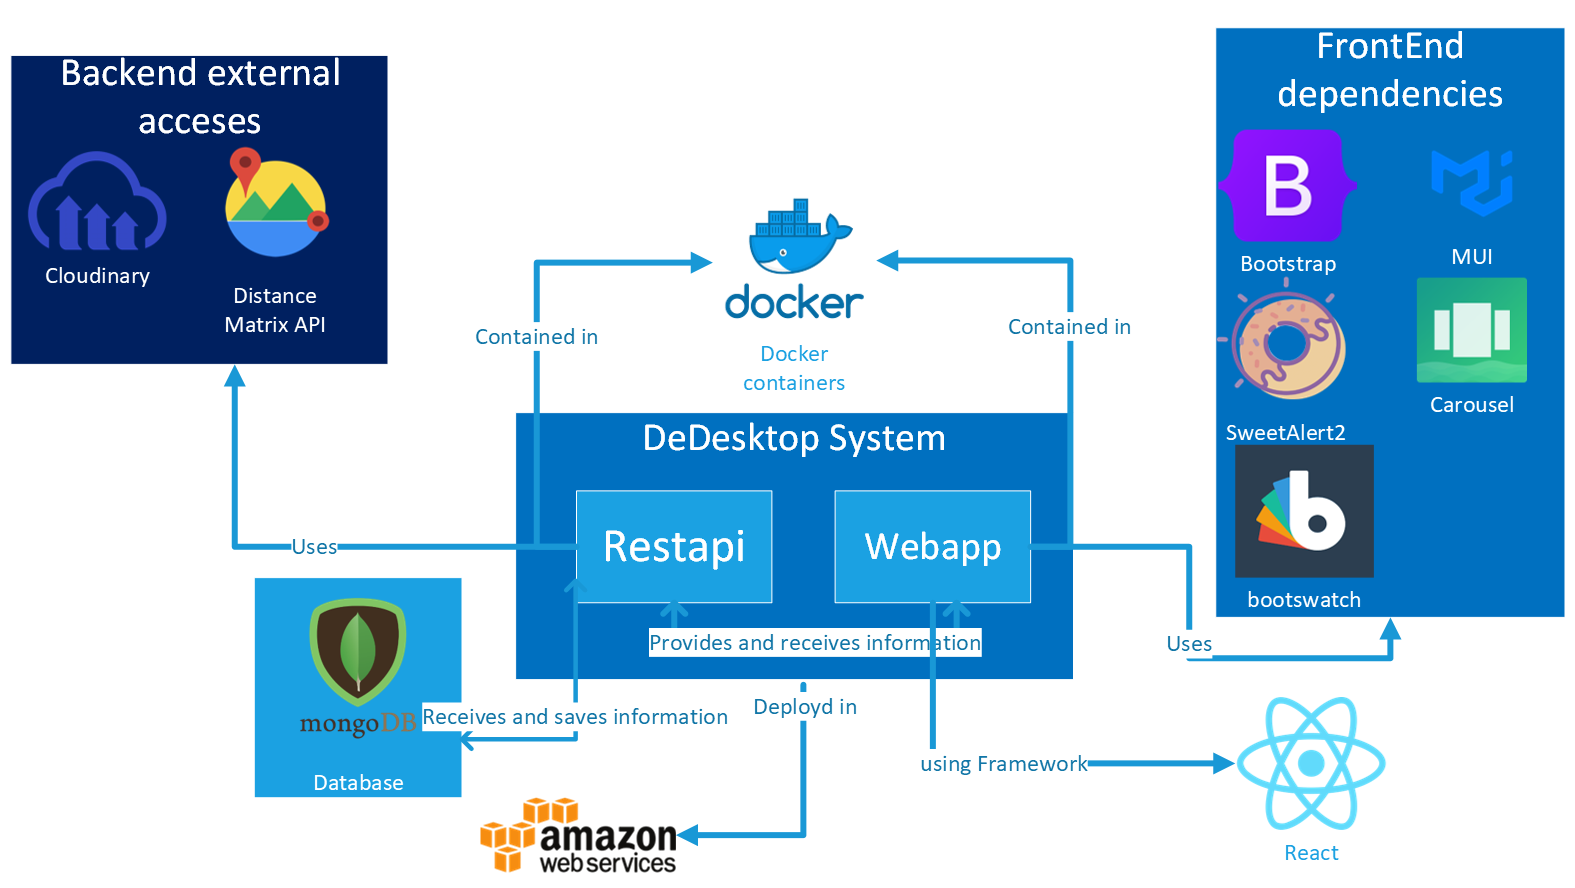
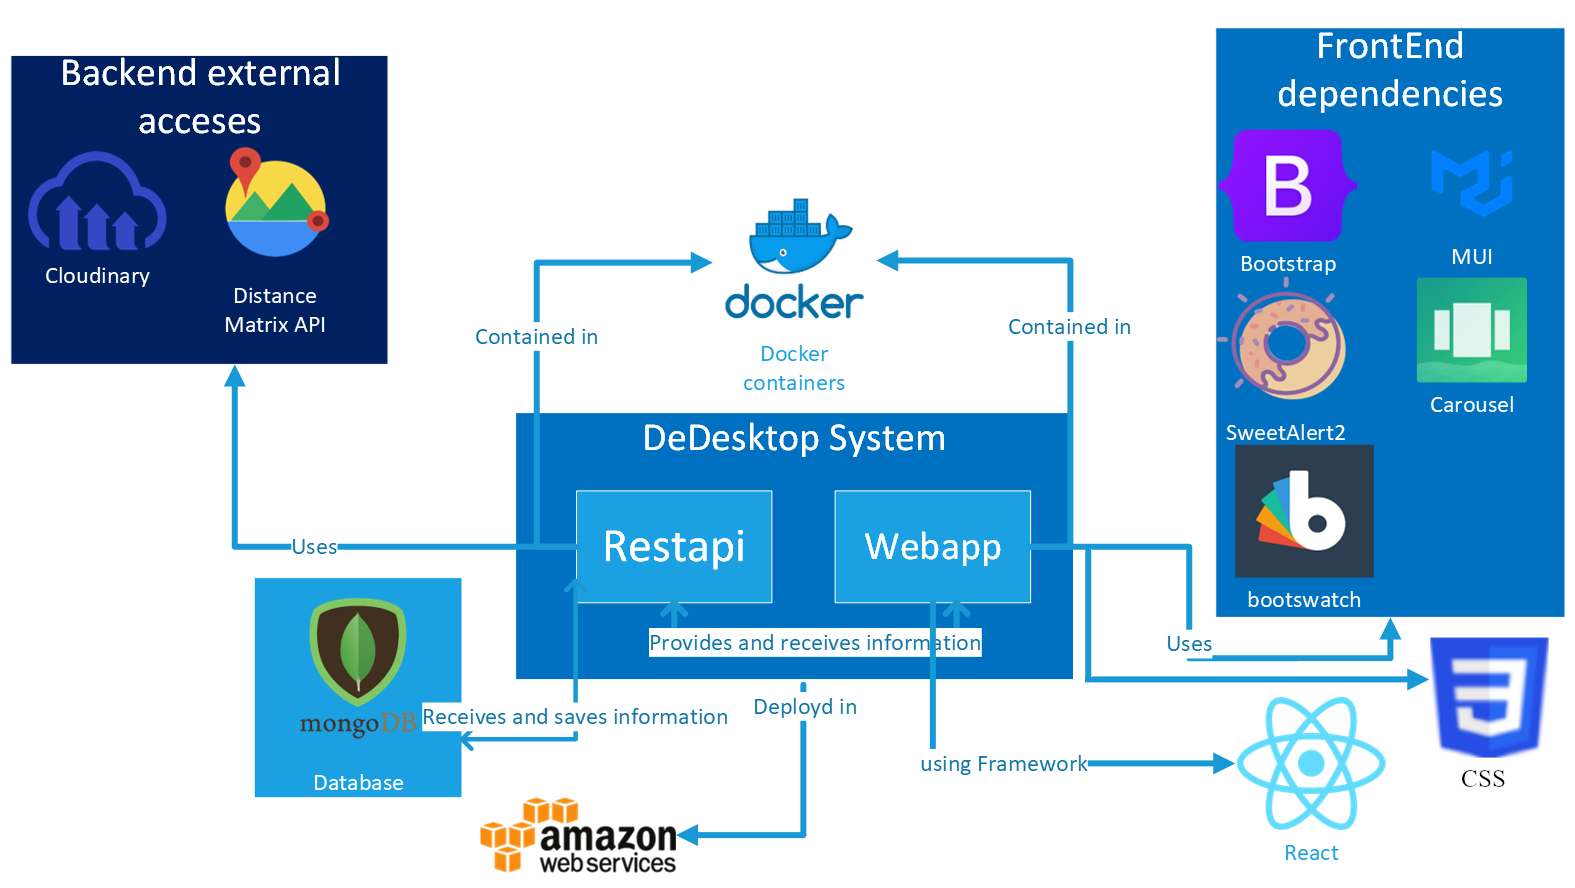
Updates

Changed region(s): [[0.6844, 0.6385, 0.9956, 0.8818]]

diff --git a/index.html b/index.html
@@ -523,6 +523,11 @@ body.book #toc,body.book #preamble,body.book h1.sect0,body.book .sect1>h2{page-b
 </ul>
 </li>
 <li><a href="#_glossary">12. Glossary</a></li>
+<li><a href="#_annexes">13. Annexes</a>
+<ul class="sectlevel2">
+<li><a href="#_usability_survey">13.1. Usability survey</a></li>
+</ul>
+</li>
 </ul>
 </div>
 </div>
@@ -944,6 +949,10 @@ Now, in frontend, we used the framework React accompanied by bootstrap and MUI c
 <td class="tableblock halign-left valign-top"><p class="tableblock"><em>Amazon Web Services</em></p></td>
 <td class="tableblock halign-left valign-top"><p class="tableblock"><em>Is the platform used for the system deployment. Chosen because after trying to deploy our app in another services like Heroku (we had problems because of our Docker architecture. The free version only allows to deply one container and we had 2) and Azure we couldn&#8217;t get a proper result so we decided to try with this one</em></p></td>
 </tr>
+<tr>
+<td class="tableblock halign-left valign-top"><p class="tableblock"><em>CSS</em></p></td>
+<td class="tableblock halign-left valign-top"><p class="tableblock"><em>CSS is a language to set styles and positions of our components in the application. We used it because of our familiarity with it.</em></p></td>
+</tr>
 </tbody>
 </table>
 <div class="paragraph">
@@ -1357,10 +1366,10 @@ As we can see in the following image, we are going to use AWS to deploy the appl
 <p>Prototype version of DeDesktop:</p>
 </div>
 <div class="paragraph">
-<p><span class="image"><img src="./images/08_UI-Homepage.PNG" alt="Catalog initial prototype"></span></p>
+<p><span class="image"><img src="./images/08_UI-Homepage.png" alt="Catalog initial prototype"></span></p>
 </div>
 <div class="paragraph">
-<p><span class="image"><img src="./images/08_UI-OtherWindows.PNG" alt="Other Windows initial prototype"></span></p>
+<p><span class="image"><img src="./images/08_UI-OtherWindows.png" alt="Other Windows initial prototype"></span></p>
 </div>
 <div class="paragraph">
 <p>Middle Version of DeDesktop</p>
@@ -1586,10 +1595,15 @@ We have a role system, which defines if a user is an Administrator or a normal U
 <div class="paragraph">
 <p>Hexagonal architecture is an alternative to traditional layered architecture.</p>
 </div>
+<div class="paragraph">
+<p><span class="image"><img src="./images/13_Hexagonal.png" alt="Hexagonal"></span></p>
+</div>
 </div>
 <div class="sect3">
 <h4 id="_microservices">8.6.2. Microservices</h4>
-
+<div class="paragraph">
+<p>In our application we decided to use microservices to divide the application into webapp, restapi, database and data. With this we achieve a low coupling in these layers, a better control over them and an improvement in the quality of the software. To achieve this decoupling, we use docker, to build the images of each service.</p>
+</div>
 </div>
 </div>
 <div class="sect2">
@@ -1604,13 +1618,59 @@ We have a role system, which defines if a user is an Administrator or a normal U
 <div class="sect2">
 <h3 id="_testability">8.8. Testability</h3>
 <div class="paragraph">
-<p>Applications should be strongly tested. We will use user histories to make acceptance tests and unit test to test the rest of the application components and states during running process.
+<p>Applications should be strongly tested. We use user stories to make acceptance tests and unit test to test the rest of the application components and states during running process.
 We think this is the best way to be sure the project works correctly.</p>
 </div>
+<div class="sect3">
+<h4 id="_postman">8.8.1. Postman</h4>
 <div class="paragraph">
-<p>To test our code, Postman was used in the backend during the whole development of the work, to check if the requests were being carried out correctly. Later, once we had a more or less solid project, we added a series of unit tests, which use Jest technology, these tests try to include all the backend and frontend parts, but separately, without joining them. Once these tests passed successfully, integration tests were implemented, which test the union of frontend and backend, all these tests were done exhaustively and were performed by people who had not done that part of the code, with that we get that we do not test things that are known to work.</p>
+<p>To test our code, Postman was used in the backend during the whole development of the work, to check if the requests were being carried out correctly. Postman is an application in which we can test requests and obtain a successfully respond if everything is ok.</p>
+</div>
+</div>
+<div class="sect3">
+<h4 id="_unit_tests">8.8.2. Unit tests</h4>
+<div class="paragraph">
+<p>Later, once we had a more or less solid project, we added a series of unit tests, which use Jest technology, these tests try to include all the backend and frontend parts, but separately, without joining them.</p>
+</div>
+</div>
+<div class="sect3">
+<h4 id="_integration_tests">8.8.3. Integration tests</h4>
+<div class="paragraph">
+<p>Once unit tests passed successfully, integration tests were implemented, which test the union of frontend and backend, all these tests were done exhaustively and were performed by people who had not done that part of the code, with that we get that we do not test things that are known to work.</p>
+</div>
+</div>
+<div class="sect3">
+<h4 id="_load_tests">8.8.4. Load tests</h4>
+<div class="paragraph">
+<p>We have load tests to check our application under real-life load conditions, it gives us an idea of the respond time having a determined users load.</p>
+</div>
+<div class="sect4">
+<h5 id="_get_products_catalog">Get products (catalog)</h5>
+<div class="paragraph">
+<p>3 users in 15 seconds
+<span class="image"><img src="./images/08_loadtests_getproducts3-15.png" alt="Load test - Catalog 1"></span>
+15 users in 30 seconds
+<span class="image"><img src="./images/08_loadtests_getproducts15-30.png" alt="Load test - Catalog 2"></span></p>
+</div>
+</div>
+<div class="sect4">
+<h5 id="_login">Login</h5>
+<div class="paragraph">
+<p>15 users in 60 seconds
+<span class="image"><img src="./images/08_loadtests_login15-60.png" alt="Load test - Login 1"></span>
+5000 users in 60 seconds. We can check that 5000 users in 1 minute is too much and some petitions fail. Most of the responds are slower but don&#8217;t fail.
+<span class="image"><img src="./images/08_loadtests_login5000-60.png" alt="Load test - Login 2"></span></p>
+</div>
+</div>
+<div class="sect4">
+<h5 id="_get_users_list">Get users list</h5>
+<div class="paragraph">
+<p>This load test implicates a login as admin before listing users.
+<span class="image"><img src="./images/08_loadtests_getuserslist3-15.png" alt="Load test - Get users 1"></span></p>
 </div>
 <div style="page-break-after: always;"></div>
+</div>
+</div>
 </div>
 </div>
 </div>
@@ -1726,6 +1786,24 @@ We think this is the best way to be sure the project works correctly.</p>
 <td class="tableblock halign-left valign-top"><p class="tableblock">We used this library to give the user intuitive and animated alerts while using the website</p></td>
 <td class="tableblock halign-left valign-top"><p class="tableblock">I&#8217;ts easy to use and comes with predeterminated settings that makes the programming experience a lot easier</p></td>
 <td class="tableblock halign-left valign-top"><p class="tableblock">I&#8217;ts another dependecy we had to take care of and make sure it doesn&#8217;t overlap with anything else ceating bugs</p></td>
+</tr>
+<tr>
+<td class="tableblock halign-left valign-top"><p class="tableblock">Work</p></td>
+<td class="tableblock halign-left valign-top"><p class="tableblock">One of the decisions taken was to prioritise the necessary functionalities and polish them, rather than make new ones optional</p></td>
+<td class="tableblock halign-left valign-top"><p class="tableblock">We were able to polish the functionalities we had, although we would have liked to polish them further</p></td>
+<td class="tableblock halign-left valign-top"><p class="tableblock">In the end we didn&#8217;t manage to polish them at all and lost the option to make them optional</p></td>
+</tr>
+<tr>
+<td class="tableblock halign-left valign-top"><p class="tableblock">react-material-ui-carousel</p></td>
+<td class="tableblock halign-left valign-top"><p class="tableblock">This library is used to make our home page a little bit more dynamic and beautiful. This is a library created with @mui components.</p></td>
+<td class="tableblock halign-left valign-top"><p class="tableblock">Very configurable and easy to use. It gives a very good result with little configuration.</p></td>
+<td class="tableblock halign-left valign-top"><p class="tableblock">Is another dependency that makes our proyect heavier and more dependent on external libraries. It also makes us to hardcode some code as images URLs and some texts.</p></td>
+</tr>
+<tr>
+<td class="tableblock halign-left valign-top"><p class="tableblock">CSS</p></td>
+<td class="tableblock halign-left valign-top"><p class="tableblock">Used to make our application more beautiful and to make all pages elements stay in its positions.</p></td>
+<td class="tableblock halign-left valign-top"><p class="tableblock">Is a known language for some of our team members, so we can use it properly.</p></td>
+<td class="tableblock halign-left valign-top"><p class="tableblock">It makes you write more code and sometimes is difficult to make the styles in the proper way.</p></td>
 </tr>
 </tbody>
 </table>
@@ -2080,6 +2158,57 @@ We think this is the best way to be sure the project works correctly.</p>
 </tbody>
 </table>
 <div style="page-break-after: always;"></div>
+</div>
+</div>
+<div class="sect1">
+<h2 id="_annexes">13. Annexes</h2>
+<div class="sectionbody">
+<div class="sect2">
+<h3 id="_usability_survey">13.1. Usability survey</h3>
+<div class="paragraph">
+<p>To test our application and try to see how users use it, we made a survey with some of our friends and parents.</p>
+</div>
+<div class="paragraph">
+<p>We tried to test our web with two age groups. The first one is between 20 and 30 years old. All this group is considered as medium-high technology knowledge. The second one, between 45 and 55 years old, is a group with a low knowledges in techonolgy uses.</p>
+</div>
+<div class="paragraph">
+<p>First of all we made them login and signup in our web. Only one person had problems in this part, due to the little custom of carrying out this type of actions.</p>
+</div>
+<div class="paragraph">
+<p><span class="image"><img src="./images/annex11.png" alt="log in problems"></span></p>
+</div>
+<div class="paragraph">
+<p>One of the most important aspects when developing our application has been its usability. For this reason, we have asked the interviewees to tell us what problems they have encountered when browsing the application.
+The majority have not had problems, but there have been two cases in which there have been slight confusions, due to the language of the store. For these users, since the home store is in English, it could be a bit confusing when changing the language and without it, they could not navigate. There has also been a user who has detected that the header with the links, on small screens, is dislodged to be able to enter.
+The biggest navigability problem is that almost all those interviewed have found a bug in which one of the images on the home page was loaded incorrectly and was cut off.</p>
+</div>
+<div class="paragraph">
+<p>In addition, they have been asked to give a numerical score for usability.</p>
+</div>
+<div class="paragraph">
+<p><span class="image"><img src="./images/annex12.png" alt="web usability"></span></p>
+</div>
+<div class="paragraph">
+<p>As for the aesthetics of the application, there have been very good opinions and it has seemed attractive to users.</p>
+</div>
+<div class="paragraph">
+<p><span class="image"><img src="./images/annex13.png" alt="beauty votation"></span></p>
+</div>
+<div class="paragraph">
+<p>They have also been asked to simulate a purchase. Everyone has been able to add to cart easily. However, there have been a couple of problems in this regard.
+Some users wanted to know detailed information about the products to decide which one to buy. However, they were not very clear about how they could do it, since some did not see the signaling that appears when the mouse is placed over a product, indicating that it is a button.
+The filtering of products has been carried out correctly in general, except for one case in which, due to the resolution of its screen, some buttons were slightly pressed and made their use inappropriate.
+They have also been asked to pay for the purchase. This is the aspect in which there have been problems. Using a slightly different technology than usual, just over half have had trouble uploading their POD data to our app.</p>
+</div>
+<div class="paragraph">
+<p><span class="image"><img src="./images/annex14.png" alt="satisfaction with the application"></span></p>
+</div>
+<div class="paragraph">
+<p>None of the interviewees had a POD and in many cases it has even been necessary to help them create one in order to use it.
+Finally, they have been asked about the response of the application and the load times. In general terms, users are satisfied.
+As a conclusion of this study, the general opinion is good, although it is clouded by the use of PODs since it is something that has been difficult for them to understand how to use and that most of them do not see as necessary, preferring the traditional method.</p>
+</div>
+<div style="page-break-after: always;"></div>
 <div class="paragraph">
 <p><strong>About arc42</strong></p>
 </div>
@@ -2102,9 +2231,10 @@ Created by Dr. Peter Hruschka &amp; Dr. Gernot Starke.</p>
 </div>
 </div>
 </div>
+</div>
 <div id="footer">
 <div id="footer-text">
-Last updated 2022-05-03 10:51:59 +0200
+Last updated 2022-05-04 01:57:33 +0200
 </div>
 </div>
 </body>
